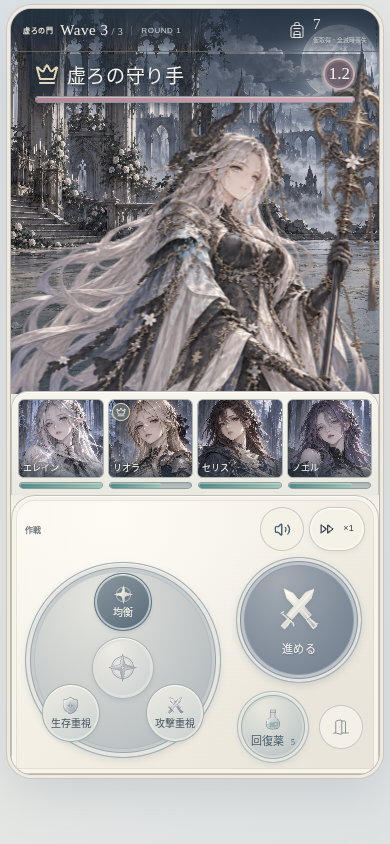
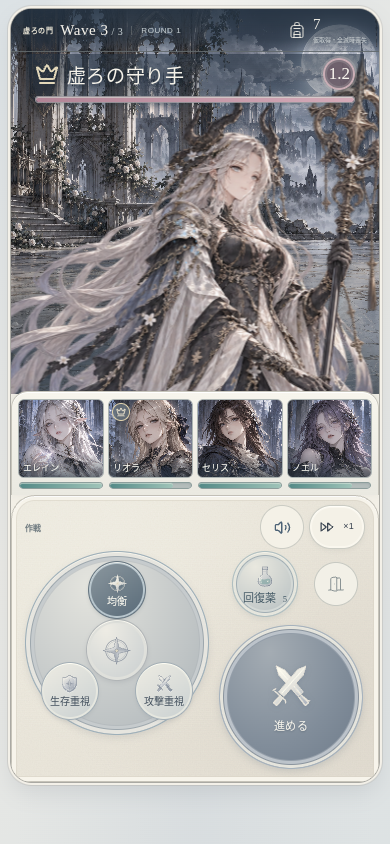
feat: polish parchment surfaces and command hierarchy

diff --git a/src/ui/battle.css b/src/ui/battle.css
@@ -84,13 +84,13 @@
 .battle-layout .party-strip .hp-bar > span { background: linear-gradient(90deg,#548a87,#a0c4b9); }
 .battle-layout .party-hp { display: none; }
 .battle-layout .party-strip--selecting .character-portrait.button:not(:disabled) { box-shadow: 0 0 0 2px #9bbab2,0 0 15px #c1d9d3; }
-.battle-layout .command-pad { position: relative; display: grid; grid-template-columns: minmax(0,1fr) 180px; column-gap: 16px; row-gap: 9px; align-items: center; padding: 17px 19px 15px; margin: 0; border: 1px solid #c6c3b9; border-radius: 24px 24px 0 0; background: radial-gradient(ellipse at 28% 8%,#fffdf7cc,transparent 63%),radial-gradient(ellipse at 83% 72%,#c8c2b51a,transparent 57%),linear-gradient(135deg,#f8f5eb,#eae6dc); box-shadow: inset 0 1px 0 #ffffff,inset 0 0 0 4px #f7f4eb,inset 0 0 0 5px #d7d1c480; }
+.battle-layout .command-pad { position: relative; display: grid; grid-template-columns: minmax(0,1fr) 196px; column-gap: 12px; row-gap: 3px; align-items: center; padding: 17px 19px 15px; margin: 0; border: 1px solid #c6c3b9; border-radius: 24px 24px 0 0; background: var(--paper-grain,none),radial-gradient(ellipse at 28% 8%,#faf7ee66,transparent 63%),radial-gradient(ellipse at 83% 72%,#bdb4a326,transparent 57%),linear-gradient(135deg,#f1eee3,#e7e2d7); box-shadow: inset 0 1px 0 #ffffff,inset 0 0 0 4px #f7f4eb,inset 0 0 0 5px #d7d1c480; }
 .battle-layout .command-heading { grid-column: 1 / -1; grid-row: 1; margin: 0; min-height: 44px; gap: 6px; }
 .battle-layout .command-heading > .eyebrow { min-width: 0; flex: 1; font-size: 9px; letter-spacing: .04em; color: #727d82; }
 .battle-layout .command-heading .toolbar { flex-shrink: 0; gap: 5px; }
 .battle-layout .command-heading .button { padding: 6px 10px; min-height: 44px; border-radius: 50px; background: #f4f1e7; font-size: 9px; border-color: #cacbc3; }
 /* A large tactile strategy selector replaces a decorative movement pad. */
-.battle-layout .strategy-options { grid-column: 1; grid-row: 2; width: min(100%,248px); aspect-ratio: 1; justify-self: center; display: flex; flex-direction: column; align-items: stretch; justify-content: center; gap: 6px; margin: 0; padding: 29px 25px; border: 1px solid #9caeb8; border-radius: 50%; background: radial-gradient(ellipse at 35% 18%,#e4e4de,#bfc4c5 65%,#a8b0b5); box-shadow: inset 0 1px 0 #f6f4eb,inset 0 0 0 4px #e6e5df,inset 0 0 0 5px #9da7ad,inset 0 0 0 8px #c6cbcd,inset 0 0 0 9px #adb3b780,0 3px 8px #414b5420; }
+.battle-layout .strategy-options { grid-column: 1; grid-row: 2; width: min(100%,248px); aspect-ratio: 1; justify-self: center; align-self: start; display: flex; flex-direction: column; align-items: stretch; justify-content: center; gap: 6px; margin: 0; padding: 29px 25px; border: 1px solid #9caeb8; border-radius: 50%; background: radial-gradient(ellipse at 35% 18%,#e4e4de,#bfc4c5 65%,#a8b0b5); box-shadow: inset 0 1px 0 #f6f4eb,inset 0 0 0 4px #e6e5df,inset 0 0 0 5px #9da7ad,inset 0 0 0 8px #c6cbcd,inset 0 0 0 9px #adb3b780,0 3px 8px #414b5420; }
 .battle-layout .strategy-options .button { flex: 0 0 auto; min-height: 52px; padding: 7px 12px; display: flex; flex-direction: row; align-items: center; justify-content: flex-start; gap: 10px; border: 1px solid #b8c3ca78; border-radius: 28px; background: linear-gradient(135deg,#e8e8e3b8,#d1d5d44a); color: #465661; box-shadow: inset 0 1px 0 #f3f2e9b0,0 1px 2px #526a7b0d; }
 .battle-layout .strategy-options .button:not(.is-selected):hover:not(:disabled) { border-color: #8da5b6; background: #f1f6f3c9; box-shadow: inset 0 1px 0 #ffffff,0 1px 3px #526a7b1c; }
 .battle-layout .strategy-options .button.is-selected { background: linear-gradient(150deg,#89959c,#667580); color: #ffffff; border-color: #7b8a94; box-shadow: inset 0 1px 0 #dce0dd99,inset 0 0 0 1px #c1c9cd70,0 1px 3px #3a4d5c21; }
@@ -99,14 +99,14 @@
 .battle-layout .strategy-options .button > span { display: block; font-family: var(--font-display); font-size: 13px; line-height: 1.4; white-space: nowrap; }
 .battle-layout .strategy-options .button small { display: none; }
 .battle-layout .command-actions { grid-column: 2; grid-row: 2; display: grid; width: 100%; grid-template-columns: 1fr auto; align-items: center; justify-items: center; gap: 10px 8px; }
-.battle-layout .command-actions .battle-item-control { grid-column: 1; grid-row: 2; width: 86px; height: 86px; min-height: 86px; padding: 10px; border-radius: 50%; display: flex; flex-direction: column; gap: 4px; border: 1px solid #aebec0; background: radial-gradient(circle at 35% 23%,#e9e8df,#c5cbca 65%,#acb7bc); box-shadow: inset 0 1px 0 #f4f2e8,inset 0 0 0 3px #e6e6dd,inset 0 0 0 4px #a1aeb4,inset 0 0 0 6px #d3d8d5,0 3px 6px #41556218; color: #465b67; }
+.battle-layout .command-actions .battle-item-control { grid-column: 1; grid-row: 1; width: 86px; height: 86px; min-height: 86px; padding: 10px; border-radius: 50%; display: flex; flex-direction: column; gap: 4px; border: 1px solid #aebec0; background: radial-gradient(circle at 35% 23%,#e9e8df,#c5cbca 65%,#acb7bc); box-shadow: inset 0 1px 0 #f4f2e8,inset 0 0 0 3px #e6e6dd,inset 0 0 0 4px #a1aeb4,inset 0 0 0 6px #d3d8d5,0 3px 6px #41556218; color: #465b67; }
 .battle-layout .battle-item-control > svg { width: 28px; height: 28px; flex-shrink: 0; }
 .battle-layout .battle-item-control > span { font-size: 11px; line-height: 1.2; }
 .battle-layout .battle-item-control small { margin-left: 3px; font-family: var(--font-display); }
-.battle-layout .command-actions .battle-advance-control { grid-column: 1 / -1; grid-row: 1; width: 164px; height: 164px; min-height: 164px; padding: 23px 14px; border-radius: 50%; display: flex; flex-direction: column; gap: 10px; border: 1px solid #a6b2bd; background: radial-gradient(ellipse at 35% 18%,#a4acb3,#818d9a 57%,#6c7988); color: #f7f5ed; box-shadow: inset 0 1px 0 #e9e8df,inset 0 0 0 3px #e5e4dc,inset 0 0 0 4px #8a949e,inset 0 0 0 7px #bcc3ca,inset 0 0 0 8px #939da8,0 3px 8px #3a4e5f28; text-shadow: 0 1px 2px #3f4d5970; }
+.battle-layout .command-actions .battle-advance-control { grid-column: 1 / -1; grid-row: 2; width: 188px; height: 188px; min-height: 188px; padding: 23px 14px; border-radius: 50%; display: flex; flex-direction: column; gap: 10px; border: 1px solid #a6b2bd; background: radial-gradient(ellipse at 35% 18%,#a4acb3,#818d9a 57%,#6c7988); color: #f7f5ed; box-shadow: inset 0 1px 0 #e9e8df,inset 0 0 0 3px #e5e4dc,inset 0 0 0 4px #8a949e,inset 0 0 0 7px #bcc3ca,inset 0 0 0 8px #939da8,0 3px 8px #3a4e5f28; text-shadow: 0 1px 2px #3f4d5970; }
 .battle-layout .battle-advance-control > svg { width: 61px; height: 61px; filter: drop-shadow(0 1px 3px #31475e2b); }
 .battle-layout .battle-advance-control > span { max-width: 110px; font-family: var(--font-display); font-size: 13px; line-height: 1.4; text-align: center; }
-.battle-layout .command-actions .battle-retreat-control { grid-column: 2; grid-row: 2; width: 44px; height: 44px; min-height: 44px; padding: 9px; border-radius: 50%; border: 1px solid #c6c8c1; background: #f2f0e7; color: #8a9394; }
+.battle-layout .command-actions .battle-retreat-control { grid-column: 2; grid-row: 1; width: 44px; height: 44px; min-height: 44px; padding: 9px; border-radius: 50%; border: 1px solid #c6c8c1; background: #f2f0e7; color: #8a9394; }
 .battle-layout .command-note { grid-column: 1 / -1; grid-row: 3; margin: 0; font-size: 9px; letter-spacing: .02em; color: #909995; }
 @media (max-width: 760px) {
   .battle-layout { max-width: 500px; border-radius: 22px; }
@@ -128,16 +128,16 @@
   .battle-layout .party-strip { padding: 7px 6px 6px; gap: 4px; }
   .battle-layout .party-strip .portrait-image { aspect-ratio: 1.08; }
   .battle-layout .party-strip .portrait-copy strong { font-size: 9px; }
-  .battle-layout .command-pad { grid-template-columns: minmax(0,1fr) 132px; column-gap: 12px; row-gap: 6px; padding: 11px 13px 10px; }
+  .battle-layout .command-pad { grid-template-columns: minmax(0,1fr) 148px; column-gap: 8px; row-gap: 2px; padding: 9px 13px 12px; }
   .battle-layout .command-heading { margin: 0; }
   .battle-layout .command-heading > .eyebrow { font-size: 8px; }
   .battle-layout .strategy-options { width: 100%; max-width: 204px; padding: 23px 17px; gap: 4px; }
   .battle-layout .strategy-options .button { min-height: 44px; padding: 5px 8px; border-radius: 25px; gap: 6px; }
   .battle-layout .strategy-options .button > svg { width: 22px; height: 22px; padding: 0; }
   .battle-layout .strategy-options .button > span { font-size: 11px; }
-  .battle-layout .command-actions { grid-template-columns: 76px 44px; justify-content: center; gap: 8px; }
-  .battle-layout .command-actions .battle-item-control { width: 72px; height: 72px; min-height: 72px; padding: 8px; }
-  .battle-layout .command-actions .battle-advance-control { width: 126px; height: 126px; min-height: 126px; padding: 18px 10px; gap: 7px; }
+  .battle-layout .command-actions { grid-template-columns: 82px 44px; justify-content: center; gap: 8px; }
+  .battle-layout .command-actions .battle-item-control { width: 66px; height: 66px; min-height: 66px; padding: 6px; }
+  .battle-layout .command-actions .battle-advance-control { width: 144px; height: 144px; min-height: 144px; padding: 18px 10px; gap: 7px; }
   .battle-layout .battle-advance-control > svg { width: 52px; height: 52px; }
   .battle-layout .battle-item-control > svg { width: 24px; height: 24px; }
   .battle-layout .battle-advance-control > span { max-width: 92px; font-size: 11px; }
@@ -148,14 +148,14 @@
   .battle-layout .battle-scene { height: 350px; }
   .battle-layout .round-label { display: none; }
   .battle-layout .bag-counter small { font-size: 6px; }
-  .battle-layout .command-pad { grid-template-columns: minmax(0,1fr) 116px; column-gap: 6px; padding-inline: 12px; }
+  .battle-layout .command-pad { grid-template-columns: minmax(0,1fr) 120px; column-gap: 6px; padding-inline: 12px; }
   .battle-layout .strategy-options { padding: 10px 8px; gap: 2px; }
   .battle-layout .strategy-options .button { min-height: 44px; padding-inline: 6px; gap: 4px; }
   .battle-layout .strategy-options .button > svg { width: 19px; height: 19px; }
   .battle-layout .strategy-options .button > span { font-size: 10px; }
   .battle-layout .command-actions { grid-template-columns: 64px 44px; gap: 6px; }
-  .battle-layout .command-actions .battle-advance-control { width: 112px; height: 112px; min-height: 112px; }
-  .battle-layout .command-actions .battle-item-control { width: 64px; height: 64px; min-height: 64px; }
+  .battle-layout .command-actions .battle-advance-control { width: 116px; height: 116px; min-height: 116px; }
+  .battle-layout .command-actions .battle-item-control { width: 62px; height: 62px; min-height: 62px; }
 }
 
 @media (max-width: 760px) and (max-height: 740px) {

diff --git a/src/ui/home.css b/src/ui/home.css
@@ -8,7 +8,7 @@
   overflow: hidden;
   border: 1px solid #b1aea6;
   border-radius: 28px;
-  background: radial-gradient(ellipse at 18% 6%, #fffdf5a8, transparent 58%), radial-gradient(ellipse at 75% 78%, #aca48e12, transparent 65%), linear-gradient(135deg, #f1eee6, #e8e4db 52%, #f0ece3);
+  background: var(--paper-grain, none), radial-gradient(ellipse at 18% 6%, #fffdf5a8, transparent 58%), radial-gradient(ellipse at 75% 78%, #aca48e12, transparent 65%), linear-gradient(135deg, #f1eee6, #e8e4db 52%, #f0ece3);
   box-shadow: 0 2px 0 #faf9f1 inset, 0 12px 35px #313a4720, 0 0 0 4px #f6f4ec80;
 }
 .home-hub::after {
@@ -37,7 +37,7 @@
   content: '';
   position: absolute;
   inset: 0;
-  background: linear-gradient(180deg, #101c2a0b, transparent 28%, transparent 84%, #f2efe6a6 96%, #f2efe6 100%);
+  background: linear-gradient(180deg, #1723340c, transparent 28%, transparent 82%, #eeebe3a6 96%, #eeebe3 100%), linear-gradient(90deg, #17233421, transparent 12%, transparent 88%, #17233421);
   pointer-events: none;
 }
 .hub-profile {
@@ -114,16 +114,16 @@
   padding: 4px 6px 11px;
   border: 1px solid #c5c1b6a6;
   border-radius: 25px;
-  background: radial-gradient(ellipse at 23% 8%, #fffdf4a6, transparent 64%), radial-gradient(ellipse at 87% 92%, #b9ae9310, transparent 64%), linear-gradient(135deg, #eeebe3eb, #eae6dfe8);
+  background: var(--paper-grain, none), radial-gradient(ellipse at 23% 8%, #fffdf4a6, transparent 64%), radial-gradient(ellipse at 87% 92%, #b9ae9310, transparent 64%), linear-gradient(135deg, #eeebe3eb, #eae6dfe8);
   box-shadow: inset 0 1px 0 #fffef8, inset 1px 0 0 #fffdf58c, 0 1px 1px #625b4810;
   color: #424955;
   text-align: center;
   overflow: hidden;
 }
 .home-hub-menu .hub-menu-tile::after { content: none; }
-.home-hub-menu .hub-menu-tile:hover:not(:disabled) { background: linear-gradient(135deg, #fcfaf4, #eeeae4); border-color: #aeb4b7; box-shadow: inset 0 1px 1px #fffef5, 0 5px 12px #36415216; transform: translateY(-1px); }
-.menu-emblem { width: 119px; height: 91px; flex-shrink: 0; filter: drop-shadow(0 2px 1px #49556515); }
-.menu-emblem--painted { object-fit: contain; padding: 1px 9px 2px; transform: scale(1.08); filter: drop-shadow(0 3px 2px #3b46521d); -webkit-user-drag: none; }
+.home-hub-menu .hub-menu-tile:hover:not(:disabled) { background: var(--paper-grain, none), linear-gradient(135deg, #fcfaf4, #eeeae4); border-color: #aeb4b7; box-shadow: inset 0 1px 1px #fffef5, 0 5px 12px #36415216; transform: translateY(-1px); }
+.menu-emblem { width: 119px; height: 91px; flex-shrink: 0; filter: drop-shadow(0 1px 0 #faf8efaa); }
+.menu-emblem--painted { object-fit: contain; padding: 1px 9px 2px; transform: scale(1.08); filter: saturate(.76) drop-shadow(0 2px 1px #3b46521a); -webkit-user-drag: none; }
 .hub-menu-tile > strong { position: relative; z-index: 1; font-family: var(--font-display); font-size: 16px; font-weight: 500; letter-spacing: .055em; white-space: nowrap; text-shadow: 0 1px 0 #fffdf6a6; }
 .home-hub .hub-dungeon-entry {
   position: relative;
@@ -143,8 +143,8 @@
   box-shadow: 0 2px 0 #acb1b1, 0 0 0 1px #b9b6a8, 0 5px 16px #38445315;
   text-align: right;
 }
-.hub-dungeon-entry > img { position: absolute; inset: 0; z-index: -2; width: 100%; height: 100%; object-fit: cover; object-position: 50% 58%; transition: transform .5s; }
-.hub-dungeon-entry::before { content: ''; position: absolute; inset: 0; z-index: -1; background: linear-gradient(90deg,#192b3e10,#2d3d50a1 55%,#394858b5); }
+.hub-dungeon-entry > img { position: absolute; inset: 0; z-index: -2; width: 100%; height: 100%; object-fit: cover; object-position: 50% 48%; transition: transform .5s; }
+.hub-dungeon-entry::before { content: ''; position: absolute; inset: 0; z-index: -1; background: linear-gradient(90deg, #192b3e1a, #253447b3 35%, #2b3b50ab 74%, #35435591); }
 .hub-dungeon-entry:hover:not(:disabled) > img { transform: scale(1.03); }
 .hub-dungeon-entry > span { display: flex; flex: 1; flex-direction: column; gap: 4px; text-align: center; }
 .hub-dungeon-entry strong { font-family: var(--font-display); font-size: 26px; font-weight: 400; letter-spacing: .11em; text-shadow: 0 1px 9px #20304455; }

diff --git a/src/screens/GameViews.tsx b/src/screens/GameViews.tsx
@@ -24,7 +24,7 @@ function PageTitle({ eyebrow, title, text }: { eyebrow: string; title: string; t
 
 export function HomeView(p: ViewProps) {
   const leader = characterById(p.save.leaderId);
-  return <section className="home-hub" aria-labelledby="home-title">
+  return <section className="home-hub game-frame" aria-labelledby="home-title">
     <h1 id="home-title" className="sr-only">旅の支度</h1>
     <div className="hub-illustration">
       <img src={assetPath('menu-hero')} alt="月下の廃聖堂に佇む銀髪の巡礼者と白い狼" />
@@ -108,7 +108,7 @@ export function BattleView(p: ViewProps) {
   const displayRound = battle.phase === 'playing' && battle.events.some(e => ['attack', 'area', 'heal', 'guard', 'buff', 'debuff'].includes(e.kind)) ? Math.max(1, battle.round - 1) : battle.round;
   const reward = battle.phase === 'reward', failed = battle.phase === 'failed';
   if (reward || failed) return <><PageTitle eyebrow={reward ? 'EXPLORATION COMPLETE' : 'THE JOURNEY CONTINUES'} title={reward ? '探索の記録' : '探索終了'} text={dungeon.name} /><Panel className="result-panel">{reward ? <Sparkles size={38} /> : <Moon size={38} />}<h2>{reward ? '獲得素材' : '今回の素材は失われました。'}</h2>{reward ? <><div className="resource-list">{items.map(([id, n]) => <div className="resource-item" key={id}><MaterialIcon rarity={id.split(':')[1] as Rarity} /><span>{materialName(id)}</span><strong>×{n}</strong></div>)}</div><div className="reward-summary"><span><Coins size={17} /> 撃破 {battle.goldEarned} G（取得済み）</span><span>クリア +20 G</span>{!p.save.completedDungeonIds.includes(dungeon.id) && <span><Gem size={17} /> 初踏破 +1</span>}</div><p className="subtle">確定するまで素材は仮取得です。</p><Button size="lg" disabled={p.busy} onClick={() => p.command({ type: 'claim' })}><Check size={18} /> 獲得を確定</Button></> : <><p>{battle.failureReason ?? 'パーティは廃都から帰還しました。'}</p><p className="subtle">ゴールド・敵の記録は保持。次回は全回復で出発します。</p><Button size="lg" disabled={p.busy} onClick={() => p.command({ type: 'leaveFailure' })}>街へ戻る <ArrowRight size={16} /></Button></>}</Panel></>;
-  return <div className="battle-layout">
+  return <div className="battle-layout game-frame">
     <div className="battle-topline">
       <div><span className="eyebrow">{dungeon.name}</span><h2>Wave {battle.wave + 1}<small> / {dungeon.waves.length}</small></h2></div>
       <span className="round-label">ROUND {displayRound}</span>

diff --git a/src/ui/MenuEmblem.tsx b/src/ui/MenuEmblem.tsx
@@ -12,8 +12,16 @@ export function MenuEmblem({ kind }: { kind: MenuEmblemKind }) {
     <defs>
       <linearGradient id={`${id}-metal`} x1="32" y1="14" x2="86" y2="84" gradientUnits="userSpaceOnUse"><stop stopColor="#747d8b" /><stop offset=".56" stopColor="#566171" /><stop offset="1" stopColor="#8d96a4" /></linearGradient>
       <linearGradient id={`${id}-paper`} x1="28" y1="19" x2="87" y2="81" gradientUnits="userSpaceOnUse"><stop stopColor="#f2ede2" /><stop offset="1" stopColor="#d2ccbf" /></linearGradient>
+      <filter id={`${id}-ink`} x="-2%" y="-2%" width="104%" height="104%" colorInterpolationFilters="sRGB">
+        <feTurbulence type="fractalNoise" baseFrequency=".72" numOctaves="3" seed="14" stitchTiles="stitch" result="grain" />
+        <feColorMatrix in="grain" type="saturate" values="0" />
+        <feComponentTransfer><feFuncA type="linear" slope=".16" /></feComponentTransfer>
+        <feComposite in2="SourceAlpha" operator="in" />
+        <feBlend in="SourceGraphic" mode="multiply" />
+      </filter>
       <radialGradient id={`${id}-halo`}><stop stopColor="#d7dce4" stopOpacity=".78" /><stop offset="1" stopColor="#d7dce4" stopOpacity="0" /></radialGradient>
     </defs>
+    <g filter={`url(#${id}-ink)`}>
     <ellipse cx="60" cy="53" rx="53" ry="36" fill={`url(#${id}-halo)`} />
     {kind === 'party' && <>
       <path d="M27 80c9-4 12-11 12-20 0-8-5-12-5-24 0-17 12-28 28-28 18 0 29 12 28 28-1 7-4 11-8 16-3 5-4 10-2 16 1 5 5 9 10 13-16 0-28 2-39 4-9 2-18 1-24-5Z" fill={metal} />
@@ -59,5 +67,6 @@ export function MenuEmblem({ kind }: { kind: MenuEmblemKind }) {
       <path d="M16 68c-4-1-6-4-6-7 4 0 7 3 6 7Zm5 9c-4 1-7-1-9-4 4-1 8 0 9 4Zm85-9c4-1 6-4 6-7-4 0-7 3-6 7Zm-5 9c4 1 7-1 9-4-4-1-8 0-9 4Z" fill="#a1aaa5" />
       <path d="M25 79c-7-6-10-14-10-22m0 7-6-3m9 12-7-1m85 7c7-6 10-14 10-22m0 7 6-3m-9 12 7-1" stroke="#adb1ab" strokeWidth="1.15" strokeLinecap="round" />
     </>}
+    </g>
   </svg>;
 }

diff --git a/src/ui/game-frame.css b/src/ui/game-frame.css
@@ -1,6 +1,9 @@
 /* The illustrated home and battlefield are standalone game frames. */
 .app-shell:is(.is-menu,.is-exploring) { grid-template-columns: minmax(0,1fr); }
 .app-shell:is(.is-menu,.is-exploring) > .sidebar { display: none; }
+.app-shell:is(.is-menu,.is-exploring) {
+  background: radial-gradient(ellipse at 50% 14%,#f8f6ef7a,transparent 55%),radial-gradient(ellipse at 50% 92%,#b8c2ce38,transparent 65%);
+}
 .app-shell.is-exploring .app-body > .topbar { display: none; }
 .app-shell.is-exploring .main-content { padding-inline: 12px; }
 .app-shell.is-exploring .app-footer { display: none; }

diff --git a/src/ui/materials.css b/src/ui/materials.css
@@ -1,0 +1,16 @@
+:root {
+  --paper-grain: url('./textures/ivory-grain.svg');
+  --frame-edge: #aaa9a3;
+  --frame-light: #faf7ed;
+}
+
+/* One quiet silver bevel around the illustrated game surfaces. */
+.game-frame.home-hub, .game-frame.battle-layout {
+  border-color: var(--frame-edge);
+  box-shadow: inset 0 1px 0 var(--frame-light),0 0 0 2px #f3f0e8,0 0 0 3px #aaa8a054,0 10px 22px #35404f1c;
+}
+@media (min-width: 761px) {
+  .game-frame.home-hub, .game-frame.battle-layout {
+    box-shadow: inset 0 1px 0 var(--frame-light),0 0 0 2px #f3f0e8,0 0 0 3px #aaa8a066,0 18px 38px #35404f26;
+  }
+}

diff --git a/src/ui/index.tsx b/src/ui/index.tsx
@@ -10,6 +10,7 @@ import './home.css';
 import './battle.css';
 import './enemy-carousel.css';
 import './game-frame.css';
+import './materials.css';
 export { EnemyCarousel } from './EnemyCarousel';
 export { MenuEmblem } from './MenuEmblem';
 export { SceneEffects } from './SceneEffects';
